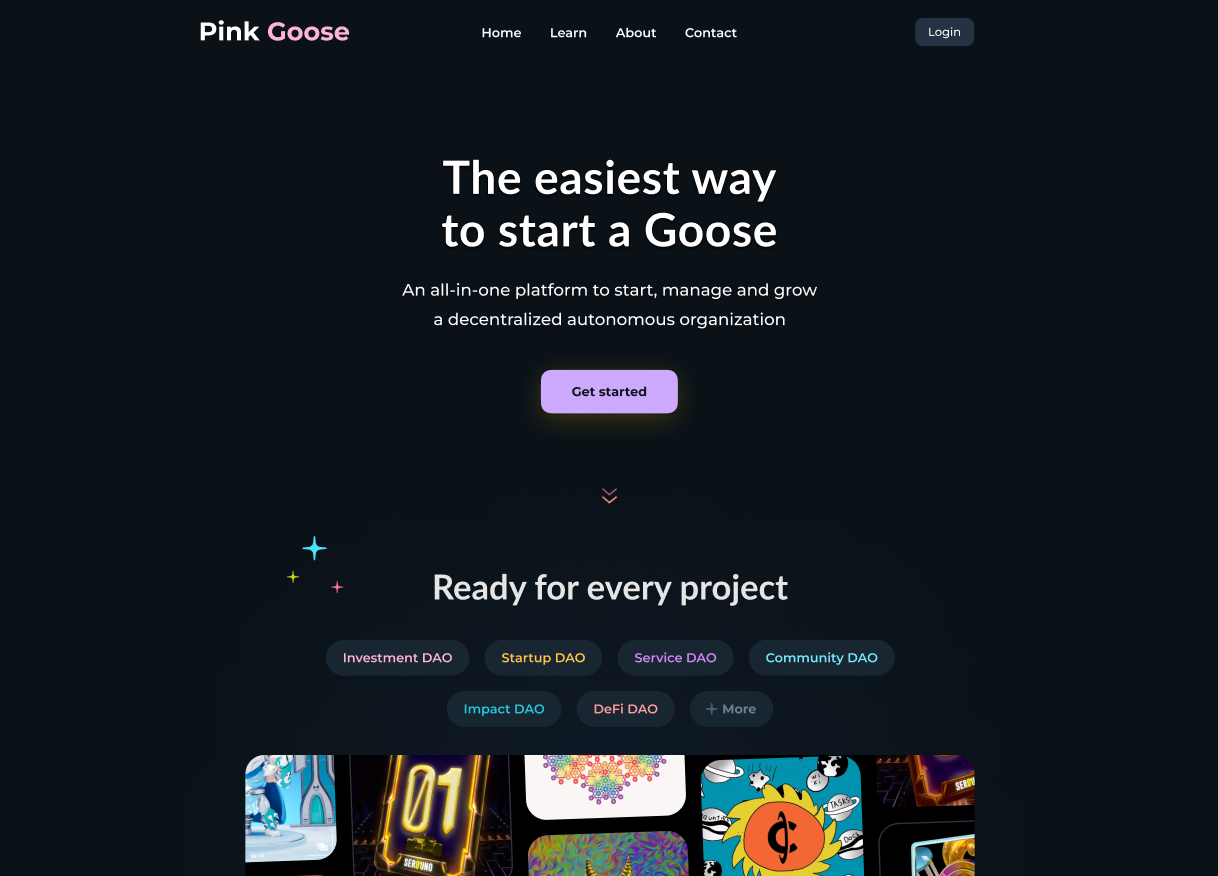
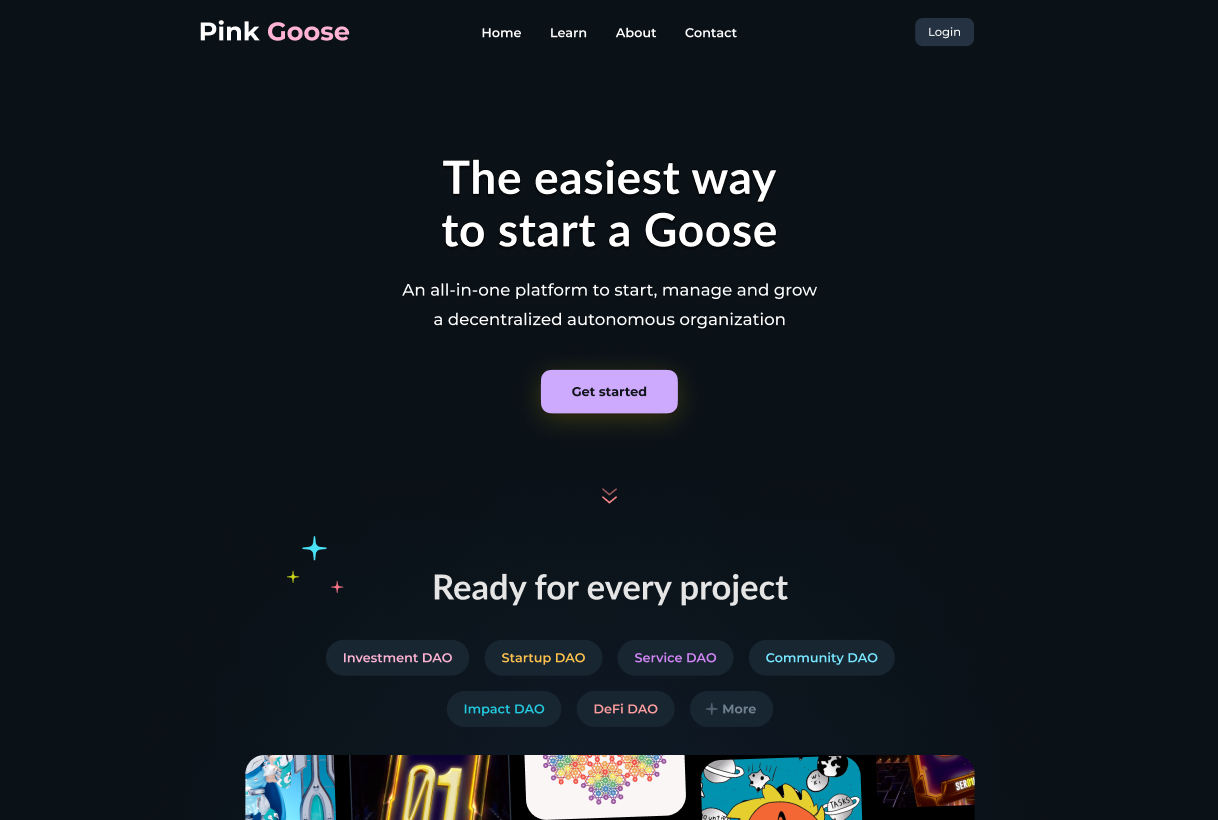
added some changes to the home pages and changed the cards

diff --git a/index.html b/index.html
@@ -37,7 +37,7 @@
                 <div> <img src="img/myAvatar.svg" alt="avatar" class="myavatar"></div>
                 <div class="slide-left">
                 <p>I’m Kane Frentz currently following <br> the software developer study in <br> Nijmegen. I have experience with <br> HTML, CSS and Java.</p>
-                </div>
+            </div>
         </section>
 
         <section class="about-me">
@@ -58,32 +58,38 @@
             <div class="work-items">
                 <h1 class="hidden">MY WORK</h1>
                 
-             <div class="card hidden">
-                    <div class="first-content">
-                    <img src="img/pinkgoose-website.png" alt="" class="pink-goose-image">
+                <div id="card-area">
+                    <div class="wrapper">
+                        <div class="cube-container hidden gradient-border">
+                            <div class="box-area">
+                                <div class="box">
+                                    <img src="img/pinkgoose-website.png" class="pink-goose-image" alt="">
+                                    <div class="overlay">
+                                        <h3>Pinkgoose</h3>
+                                        <p>This is my Pinkgoose site that I had to make for my class. I had to study the website design and then remake it in HTML and CSS</p>
+                                        <a href="#">See more</a>
+                                    </div>
+                                </div>
+                                <div class="box">
+                                    <img src="img/mastermind-project.png" alt="" class="mastermind-project" height="250px">
+                                    <div class="overlay">
+                                        <h3>Mastermind</h3>
+                                        <p>In this project I remade the code guessing game Mastermind using Java</p>
+                                        <a href="#">See more</a>
+                                    </div>
+                                </div>
+                                <div class="box">
+                                    <img src="img/website-project.png" alt="" class="website-project" height="250px">
+                                    <div class="overlay">
+                                        <h3>School Website</h3>
+                                        <p>In this project I had to make a website for my school using HTML CSS and JS</p>
+                                        <a href="#">See more</a>
+                                    </div>
+                                </div>
+                            </div>
+                        </div>        
                     </div>
-                    <div class="second-content">
-                    <h1>PINKGOOSE</h1>
-                    <p>This is my Pinkgoose site that I had to make for my class. I had to study the website design and then remake it in HTML and CSS</p>
-            </div>
-            </div>    
-            <div class="card hidden">
-                <div class="first-content">
-                <img src="img/mastermind-project.png" alt="" class="pink-goose-image">
-                </div>
-                <div class="second-content">
-                <h1>MASTERMIND</h1>
-                <p>In this project I remade the code guessing game Mastermind using Java</p>
-            </div>
-            <div class="card hidden">
-                <div class="first-content">
-                    <img src="img/website-project.png" alt="" class="">
-                </div>
-                <div class="second-content">
-                    <h1>SCHOOL WEBSITE</h1>
-                    <p>In this project I had to make a website for my school using HTML CSS and JS</p>
-            </div>
-
+                </div>    
         </section>
               
             

diff --git a/css/style.css b/css/style.css
@@ -82,8 +82,7 @@ header{
 	font-size: 70px;
 	font-weight: bold;
 	display: flex;
-	
-
+	text-shadow: 1px 1px 3px #000;
 }
 
 .slide-right {
@@ -92,7 +91,7 @@ header{
   }
   
   .slide-right h1 {
-	animation: 1.5s slide-right 1.5s forwards;
+	animation: 1s slide-right 1s forwards;
 	  transform:translate(-100%);
   }
   
@@ -107,8 +106,9 @@ header{
   }
   
   .slide-left p {
-	animation: 2.2s slide-left 2.2s forwards;
+	animation: 1.5s slide-left 1.5s forwards;
 	transform:translateX(110%);
+	text-shadow: 1px 1px 3px #000;
   }
   
   @keyframes slide-left {
@@ -151,6 +151,7 @@ header{
 	font-weight: lighter;
 	color: white;
 	flex-direction: column;
+	text-shadow: 1px 1px 3px #000;
 }
 
 .text-icons-home-page{
@@ -217,13 +218,14 @@ header{
     align-items: center;
 }
 
-.about-me-items h1, .contact-items h1, .work h1, .aboutme-page {
+.about-me-items h1, .contact-items h1, .work h1, .aboutme-page  {
 color: white;
 font-size: 40px;
 font-weight: bolder;
 text-align: center;
 margin-top: 200px;
 margin-bottom: 120px;
+text-shadow: 1px 1px 3px #000;
 }
 
 .about-me-items p, .contact-items p{
@@ -231,6 +233,7 @@ margin-bottom: 120px;
 	color: white;
 	font-style: normal;
 	text-align: center;
+	text-shadow: 1px 1px 3px #000;
 	
 }
 
@@ -357,6 +360,8 @@ color: #fff;
 .aboutme-page-items{
 	margin-top: 100px;
 	font-size: 30px;
+	letter-spacing: 0.5px;
+	text-shadow: 1px 1px 3px #000;
 }
 
 .work-experience{
@@ -373,6 +378,7 @@ color: #fff;
 
 .work-experience-action p{
 	font-size: 20px;
+	
 }
 
 .action-logo{
@@ -430,16 +436,9 @@ color: #fff;
   
   .card:hover .second-content {
 	opacity: 1;
-	height: 100%;
+	height: 50%;
 	font-size: 1.8rem;
 	transform: rotate(0deg);
-  }
-  
-  .pink-goose-image {
-	width: 100%;
-	height: 100%; 
-	object-fit: cover;
-	border-radius: 10px; 
   }
   
   .second-content h1 {
@@ -462,3 +461,113 @@ color: #fff;
 	justify-content: center;
 	gap: 100px;
 }
+
+.work h1{
+	margin-bottom: 10px;
+}
+
+.cube-container {
+    padding: 40px 50px 60px 50px; 
+    background: linear-gradient(-45deg, black, #212529, #343A40);
+    border: 2px solid white;
+    border-radius: 15px; 
+    box-shadow: 10px 10px 30px rgba(0, 0, 0, 0.3); 
+    display: flex;
+    justify-content: center; 
+    align-items: center; 
+}
+
+
+
+.wrapper{
+padding: 10px 10%;
+}
+
+#card-area{
+	padding: 50px 0;
+}
+
+.box-area{
+	display: grid;
+	grid-template-columns: repeat(auto-fit, minmax(250px, 1fr));
+	grid-gap: 40px;
+	margin-top: 50px;
+}
+
+.box{
+	
+	border-radius: 3px;
+	position: relative;
+	overflow: hidden;
+}
+
+.box img{
+	width: 100%;
+	border-radius: 10px;
+	display: block;
+	transition: transform 0.5s;
+}
+
+.overlay{
+	height: 0;
+	width: 100%;
+	background: linear-gradient(transparent, #1c1c1c 70%);
+	border-radius: 10px;
+	position: absolute;
+	left: 0;
+	bottom: 0;
+	overflow: hidden;
+	display: flex;
+	align-items: center;
+	justify-content: center;
+	flex-direction: column;
+	
+	text-align: center;
+	font-size: 14px;
+	transition: height 0.5s;
+}
+
+.overlay h3{
+	font-weight: 500;
+	margin-bottom: 5px;
+	font-size: 30px;
+	letter-spacing: 2px;
+	color: white;
+	padding-top: 100px;
+}
+
+.overlay p{
+	color: white;
+}
+
+.overlay a{
+	margin-top: 10px;
+	color: #262626;
+	text-decoration: none;
+	font-size: 14px;
+	background: #fff;
+	border-radius: 50px;
+	text-align: center;
+	padding: 5px 15px;
+}
+
+.boxLhover img{
+	transform: scale(1.2);
+}
+
+.pink-goose-image{
+	height: 100%;
+	object-fit: cover;
+	aspect-ratio: auto;
+}
+
+.box:hover .overlay{
+	height: 100%;
+}
+
+.website-project{
+	object-fit: cover;
+}
+
+
+

diff --git a/contact.html b/contact.html
@@ -9,22 +9,24 @@
     <script defer src="script.js"></script>
 </head>
 
+
 <body>
+    <header>
+        <h1><a href="index.html">KANE</h1></a>
+        <nav class="navbar">
+            <ul>
+                <li><a href="aboutme.html">About me</a></li>
+                <li><a href="work.html">Work</a></li>
+                <li><a href="contact.html">Contact</a></li>
+            </ul>
+
+        </nav>
+    </header>
     <main>
-    <section class="test">
-        <div class="card">
-          <div class="first-content">
-            <img src="img/pinkgoose-website.png" alt="" class="pink-goose-image">
-          </div>
-          <div class="second-content">
-            <h1>PINKGOOSE</h1>
-            <p>This is my Pinkgoose site that I had to make for my class. I had to study the website design and then remake it in HTML and CSS</p>
         
-          </div>
-        
-        
-        </div>
-    </section>
+
+            
+
     </main>
 
 

diff --git a/work.html b/work.html
@@ -1,0 +1,32 @@
+<!DOCTYPE html>
+<html>
+
+<head>
+    <link rel="stylesheet" href="css/style.css">
+    <title>Portfolio Kane Frentz</title>
+    <link rel="preconnect" href="https://fonts.googleapis.com">
+    <link href="https://fonts.googleapis.com/css2?family=ABeeZee:ital@0;1&family=Lato:ital,wght@0,100;0,300;0,400;0,700;0,900;1,100;1,300;1,400;1,700;1,900&family=Ubuntu:ital,wght@0,300;0,400;0,500;0,700;1,300;1,400;1,500;1,700&display=swap" rel="stylesheet">
+    <script defer src="script.js"></script>
+</head>
+
+<body>
+    <header>
+        <h1><a href="index.html">KANE</h1></a>
+        <nav class="navbar">
+            <ul>
+                <li><a href="aboutme.html">About me</a></li>
+                <li><a href="work.html">Work</a></li>
+                <li><a href="contact.html">Contact</a></li>
+            </ul>
+        </nav>
+    </header>
+    <main>
+    
+       
+
+
+
+    </main>
+</body>
+
+</html>    

diff --git a/aboutme.html b/aboutme.html
@@ -27,7 +27,7 @@
             </div>    
             <div class="aboutme-page-items">
                 <div class="slide-left"> 
-                    <p>My name is Kane Frentz, I'm a 20 year old software developer based in Arnhem.  Currently, I’m studying Software Development at Technovium in Nijmegen where I’m learning coding languages such as Java, HTML, JavaScript, and CSS. I´m passionate about learning new skills and always working on expanding my skillset.</p>
+                    <p>My name is Kane Frentz, I'm a 20 year old software developer based in Arnhem.  Currently, I’m studying Software Development at Technovium in Nijmegen where I’m learning coding languages such as Java, HTML, JavaScript, and CSS. I´m passionate about learning new skills and always working on expanding my skillset. </p>
                 </div> 
             </div>
            <h1 class="work-experience"> Work experience </h1>

diff --git a/script.js b/script.js
@@ -17,3 +17,4 @@ const observer = new IntersectionObserver((entries) =>{
 
 const hiddenElements = document.querySelectorAll('.hidden');
 hiddenElements.forEach((el) => observer.observe(el));
+
